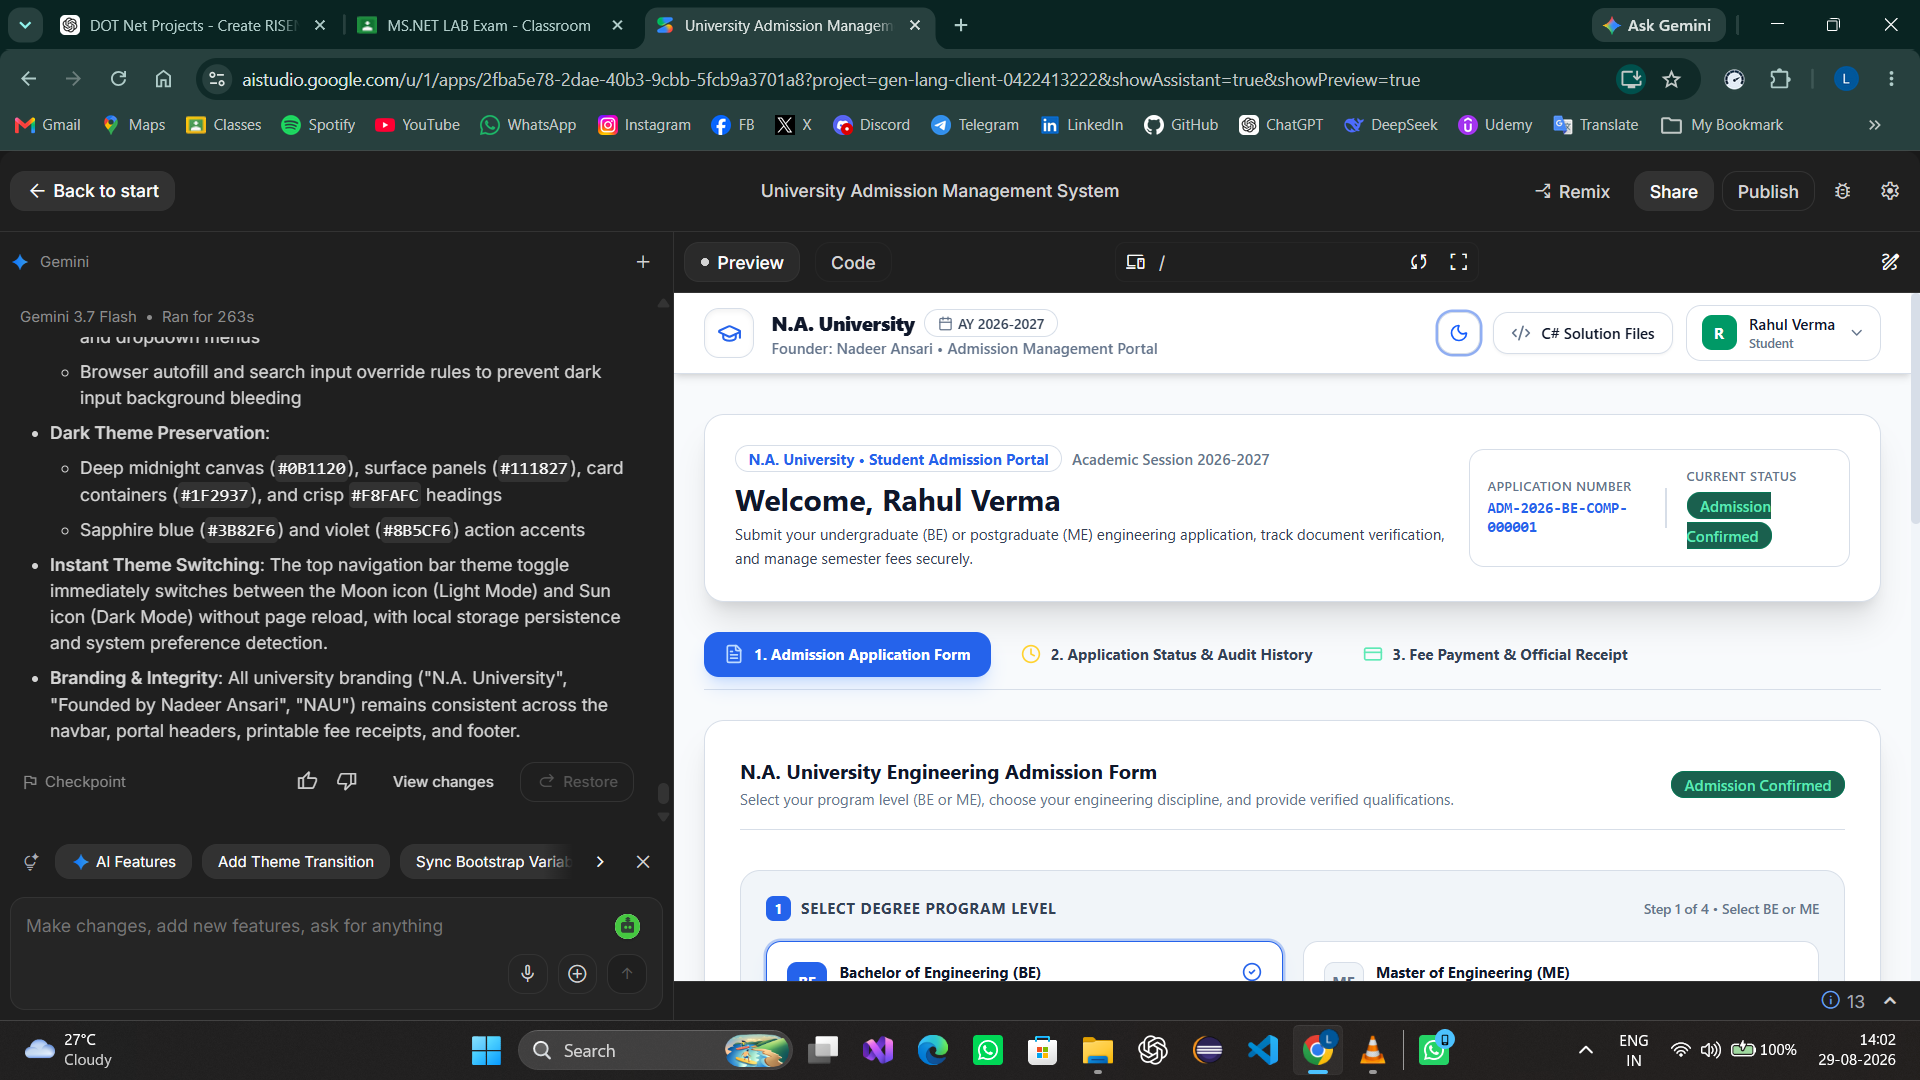
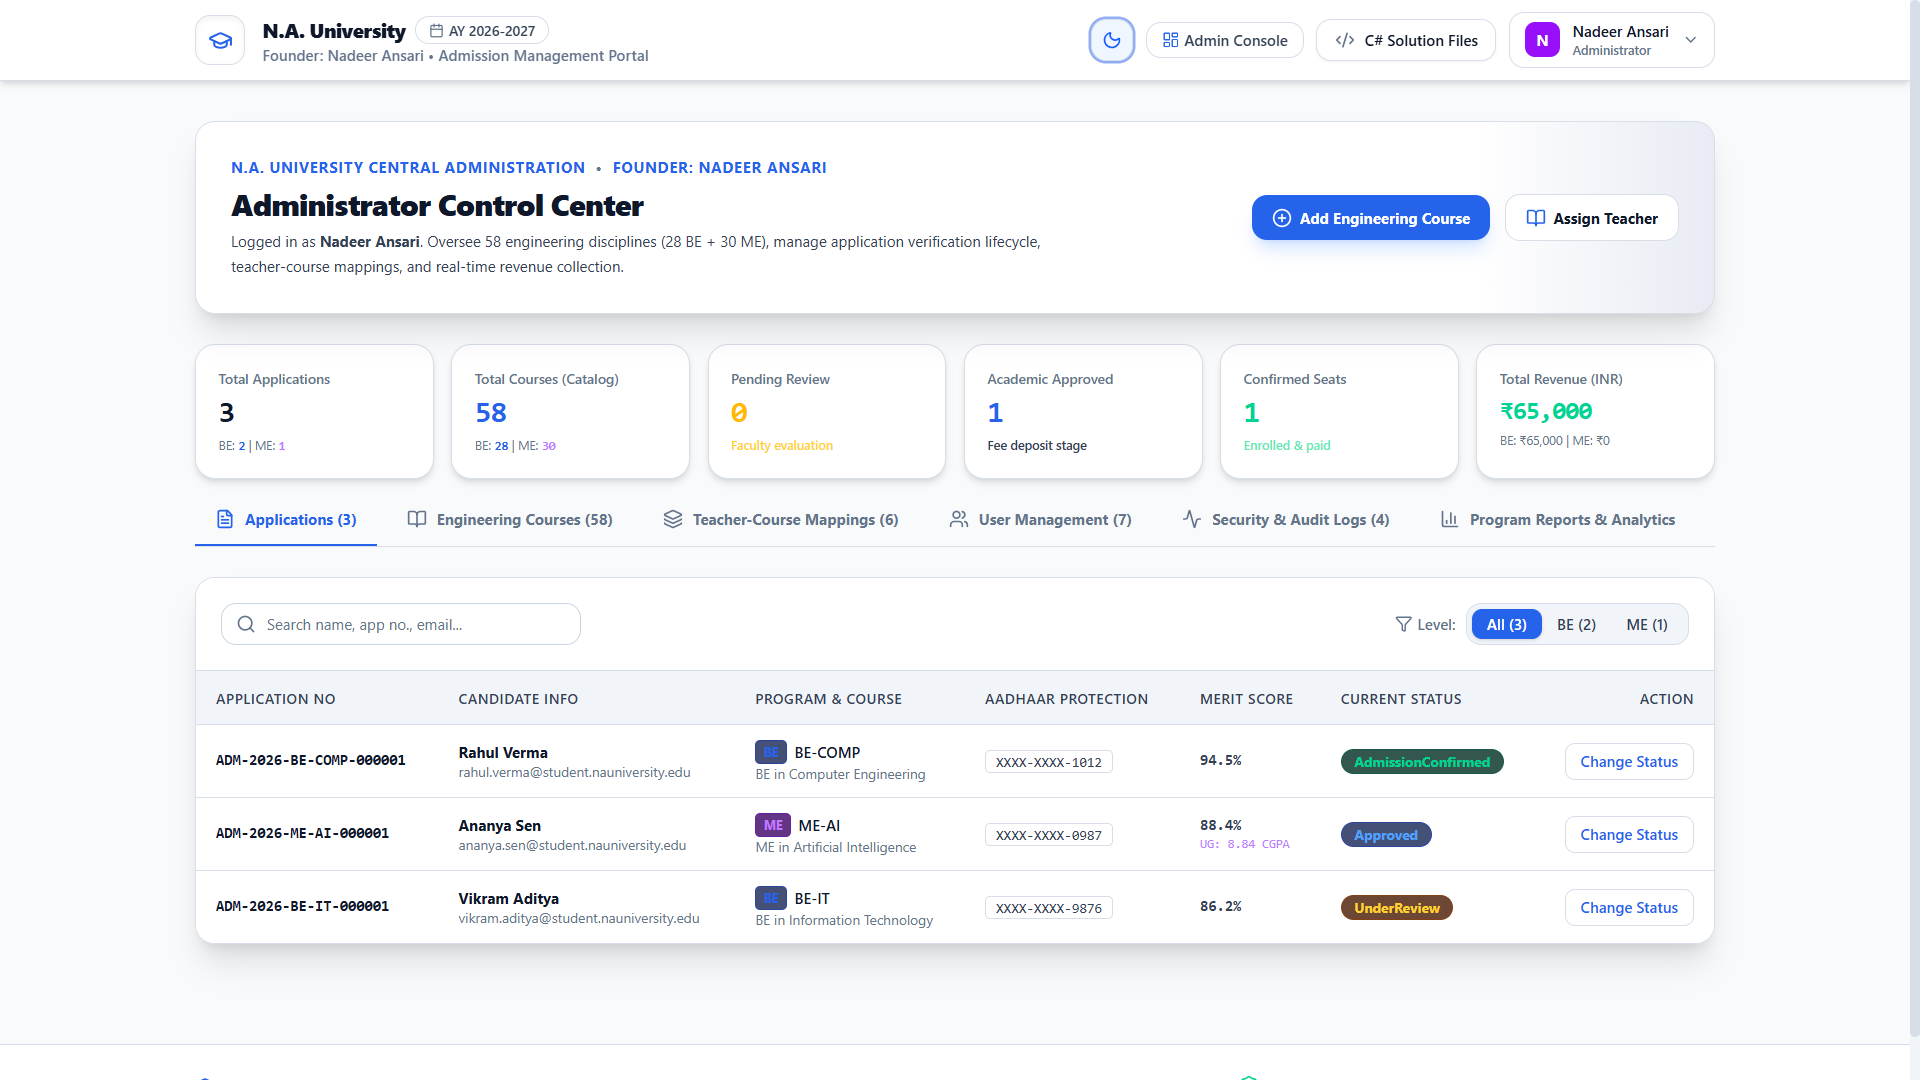
Update project links and screenshots

diff --git a/src/App.jsx b/src/App.jsx
@@ -415,7 +415,7 @@ const Projects = () => {
       description: "A modern developer interview preparation platform covering DSA, programming, core CS, aptitude, coding practice, company resources and AI-powered learning tools.",
       technologies: ["React", "Bootstrap", "JavaScript", "AI Tools"],
       githubUrl: "https://github.com/Nadeer-Ansari/AnsariPrep",
-      demoUrl: "https://ansari-prep.vercel.app",
+      demoUrl: "https://ansariprep.vercel.app/",
       image: "/ansari-prep.png"
     },
     {
@@ -424,7 +424,7 @@ const Projects = () => {
       description: "A role-based university admission platform with dedicated Student, Faculty, Accounts and Admin portals for managing the complete admission workflow.",
       technologies: ["React", "TypeScript", "Vite", "Tailwind CSS", "ASP.NET Core"],
       githubUrl: "https://github.com/Nadeer-Ansari/University-Admission-Management-System",
-      demoUrl: "https://uni-admission-portall.ai.studio",
+      demoUrl: "https://uni-admission-portall.ai.studio/",
       image: "/university-admission.png"
     },
     {
